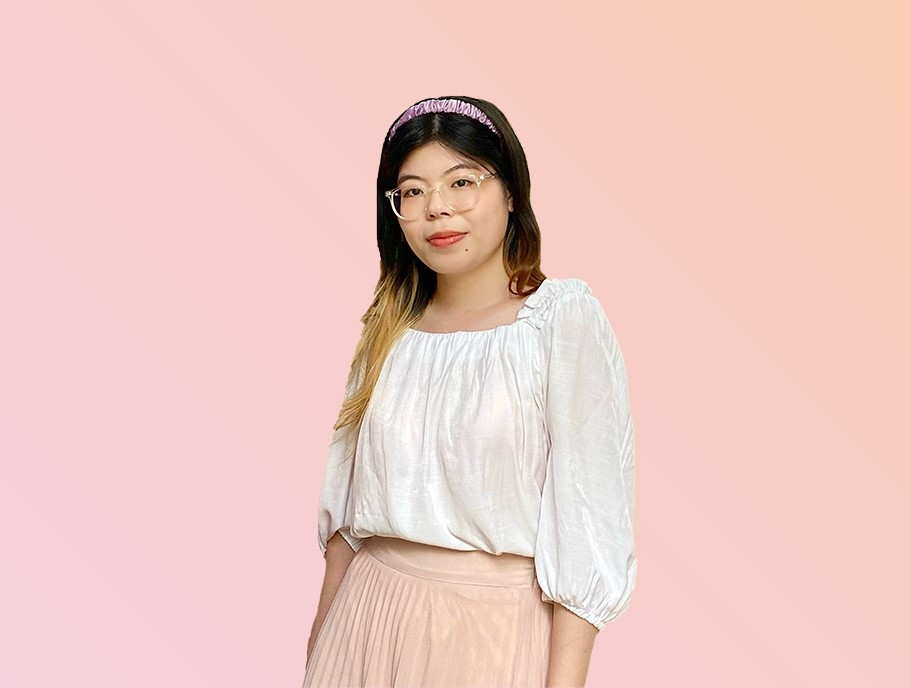
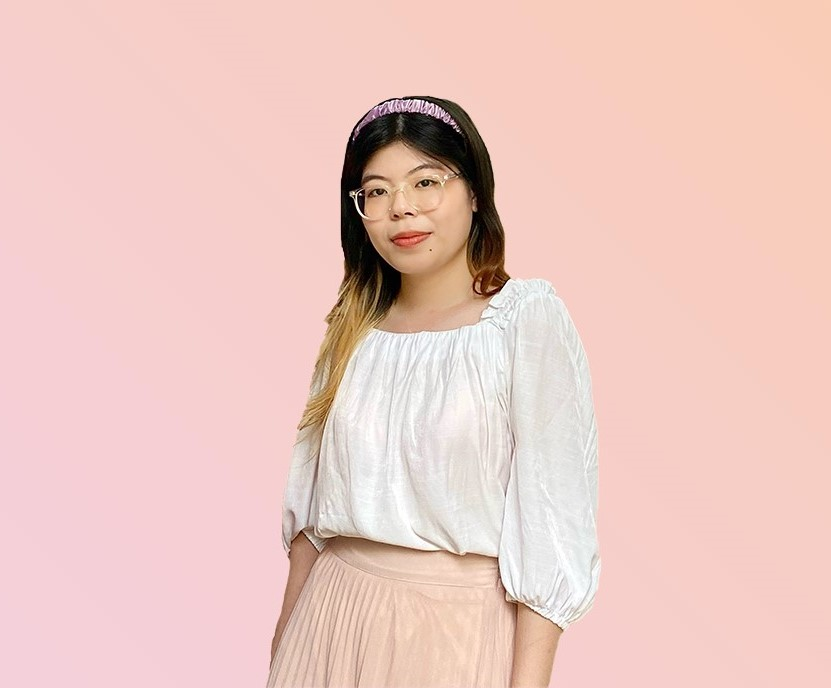
update projects, fixing img

Changed region(s): [[0.3008, 0.1221, 0.722, 1.0], [0.4813, 0.6715, 0.5114, 0.702], [0.4813, 0.6105, 0.5114, 0.641]]

diff --git a/index.html b/index.html
@@ -7,27 +7,25 @@
     <link href="https://cdn.jsdelivr.net/npm/bootstrap@5.2.3/dist/css/bootstrap.min.css" rel="stylesheet"
         integrity="sha384-rbsA2VBKQhggwzxH7pPCaAqO46MgnOM80zW1RWuH61DGLwZJEdK2Kadq2F9CUG65" crossorigin="anonymous">
     <script src="https://cdn.jsdelivr.net/npm/bootstrap@5.2.3/dist/js/bootstrap.bundle.min.js"
-        integrity="sha384-kenU1KFdBIe4zVF0s0G1M5b4hcpxyD9F7jL+jjXkk+Q2h455rYXK/7HAuoJl+0I4" 
+        integrity="sha384-kenU1KFdBIe4zVF0s0G1M5b4hcpxyD9F7jL+jjXkk+Q2h455rYXK/7HAuoJl+0I4"
         crossorigin="anonymous"></script>
     <link rel="preconnect" href="https://fonts.googleapis.com">
     <link rel="preconnect" href="https://fonts.gstatic.com" crossorigin>
     <link href="https://fonts.googleapis.com/css2?family=Josefin+Sans:wght@100&family=Rowdies:wght@300&display=swap"
         rel="stylesheet">
-    <link rel="preconnect" href="https://fonts.googleapis.com">
-    <link rel="preconnect" href="https://fonts.gstatic.com" crossorigin>
     <link
         href="https://fonts.googleapis.com/css2?family=Edu+TAS+Beginner&family=Josefin+Sans:wght@100&family=Rowdies:wght@300&display=swap"
         rel="stylesheet">
-    <link rel="preconnect" href="https://fonts.googleapis.com">
-    <link rel="preconnect" href="https://fonts.gstatic.com" crossorigin>
     <link
         href="https://fonts.googleapis.com/css2?family=Edu+TAS+Beginner&family=Josefin+Sans:wght@100&family=Nunito:wght@200&family=Rowdies:wght@300&display=swap"
         rel="stylesheet">
-    <link rel="preconnect" href="https://fonts.googleapis.com">
-    <link rel="preconnect" href="https://fonts.gstatic.com" crossorigin>
     <link
         href="https://fonts.googleapis.com/css2?family=Edu+TAS+Beginner&family=Josefin+Sans:wght@100&family=Nunito:wght@200&family=Pacifico&family=Rowdies:wght@300&display=swap"
         rel="stylesheet">
+    <link
+        href="https://fonts.googleapis.com/css2?family=Edu+TAS+Beginner&family=Josefin+Sans:wght@100&family=Nunito:wght@200&family=Pacifico&family=Righteous&family=Rowdies:wght@300&display=swap"
+        rel="stylesheet">
+
     <link rel="stylesheet" href="https://cdnjs.cloudflare.com/ajax/libs/font-awesome/4.7.0/css/font-awesome.min.css">
     <link rel="apple-touch-icon" sizes="180x180" href="favicon/apple-touch-icon.png">
     <link rel="icon" type="image/png" sizes="32x32" href="favicon/favicon-32x32.png">
@@ -62,7 +60,7 @@
                     </div>
                     <div class="profile-info">
                         <h1>Hello, my name is Thao Nguyen</h1>
-                        <p>Let's discover my testing projects below!</p>
+                        <p>Let's discover my technical projects below!</p>
                         <a href="#projects"><button class="view-projects-button">View Projects</button></a>
                     </div>
                 </div>
@@ -76,15 +74,14 @@
                 <div class="about-header">
                     <h1 class="about-title"> About </h1>
                     <p class="about-contents">
-                        Lorem, ipsum dolor sit amet consectetur adipisicing elit. Quibusdam aspernatur eaque quas,
-                        sunt quisquam eligendi cupiditate quae rem ipsa corporis sint tempora repudiandae facilis
-                        fugit quo ipsum error maxime accusantium?
-                        Lorem ipsum dolor sit amet consectetur adipisicing elit. Eaque modi exercitationem vel.
-                        Accusamus, nulla veniam. Itaque eum officiis, aut, nemo aliquam praesentium velit, totam
-                        neque saepe nisi modi minima? Temporibus?
-                        Lorem, ipsum dolor sit amet consectetur adipisicing elit. Voluptates dicta, incidunt magni
-                        nesciunt aliquid autem asperiores odio quidem accusamus eos repudiandae recusandae quo porro
-                        aut corporis magnam voluptatem eligendi amet.
+                        A senior student at Hanoi University with a passion for software testing.
+                        I am currently seeking a tester internship opportunity to kickstart my professional development.
+                        My short-term goal is to achieve the ISTQB (International Software Testing Qualifications Board)
+                        certification, which will equip me with a solid foundation in software testing principles and
+                        methodologies.
+                        Building a stable and rewarding career in automation testing is my long-term goal. Through
+                        continuous learning and adaptability, I aspire to become a automation tester who can help ensure
+                        the efficiency of software applications.
                     </p>
                 </div>
             </div>
@@ -99,25 +96,23 @@
                 <div class="row card-row-one">
                     <div class="col">
                         <div class="card card-item-1">
-                            <img src="https://ichef.bbci.co.uk/news/976/cpsprodpb/1362E/production/_128860497_334922667_762325655074030_2740480103230960428_n.jpg"
-                                class="card-img" alt="...">
+                            <img src="imgs/lor-travel-cover.png"
+                                class="card-img" alt="lor-travel-cover">
                             <div class="card-img-overlay">
-                                <h5 class="card-title">Card title</h5>
-                                <p class="card-text">This is a wider card with supporting text below as a natural
-                                    lead-in to additional content. This content is a little bit longer.</p>
-                                <p class="card-text"><small>Last updated 3 mins ago</small></p>
+                                <h5 class="card-title">LOR TRAVEL</h5>
+                                <p class="card-text">A user-friendly website for booking tours in Vietnam, to let users view, book, checkout and tracking the booked tours. Travel with confidence!</p>
+                                <p class="card-text">Tag: #NodeJS, #mongodb, #mongoose, #manual_testing</p>
                             </div>
                         </div>
                     </div>
                     <div class="col">
                         <div class="card card-item-2">
-                            <img src="https://ichef.bbci.co.uk/news/976/cpsprodpb/1362E/production/_128860497_334922667_762325655074030_2740480103230960428_n.jpg"
-                                class="card-img" alt="...">
+                            <img src="imgs/opencart-cover.png"
+                                class="card-img" alt="opencart-cover">
                             <div class="card-img-overlay">
-                                <h5 class="card-title">Card title</h5>
-                                <p class="card-text">This is a wider card with supporting text below as a natural
-                                    lead-in to additional content. This content is a little bit longer.</p>
-                                <p class="card-text"><small>Last updated 3 mins ago</small></p>
+                                <h5 class="card-title">OPENCART </h5>
+                                <p class="card-text">A personal manual testing project on an e-commerce website OpenCart for practicing testing skills such as design and execute testcase, write bug reports and other related document</p>
+                                <p class="card-text">Tag: #manual_testing, #testcase, #RTM, #testscenario, #testplan, #logbug</p>
                             </div>
                         </div>
                     </div>
@@ -125,25 +120,23 @@
                 <div class="row card-row-two">
                     <div class="col">
                         <div class="card card-item-1">
-                            <img src="https://ichef.bbci.co.uk/news/976/cpsprodpb/1362E/production/_128860497_334922667_762325655074030_2740480103230960428_n.jpg"
-                                class="card-img" alt="...">
+                            <img src="imgs/student-api-cover.png"
+                                class="card-img" alt="student">
                             <div class="card-img-overlay">
-                                <h5 class="card-title">Card title</h5>
-                                <p class="card-text">This is a wider card with supporting text below as a natural
-                                    lead-in to additional content. This content is a little bit longer.</p>
-                                <p class="card-text"><small>Last updated 3 mins ago</small></p>
+                                <h5 class="card-title">STUDENT API</h5>
+                                <p class="card-text">A mini project testing API using Postman tool</p>
+                                <p class="card-text">Tag: #manual_testing, #testcase, #postman, #testscript</p>
                             </div>
                         </div>
                     </div>
                     <div class="col">
                         <div class="card card-item-2">
-                            <img src="https://ichef.bbci.co.uk/news/976/cpsprodpb/1362E/production/_128860497_334922667_762325655074030_2740480103230960428_n.jpg"
-                                class="card-img" alt="...">
+                            <img src="imgs/marganet-vintage-cover.png"
+                                class="card-img" alt="marganet-vintage-cover">
                             <div class="card-img-overlay">
-                                <h5 class="card-title">Card title</h5>
-                                <p class="card-text">This is a wider card with supporting text below as a natural
-                                    lead-in to additional content. This content is a little bit longer.</p>
-                                <p class="card-text"><small>Last updated 3 mins ago</small></p>
+                                <h5 class="card-title">MARGANET VINTAGE</h5>
+                                <p class="card-text">An UI/UX school project for creating prototypes of a vintage clothes selling website</p>
+                                <p class="card-text">Tag: #design, #figma, #prototype, #wireframe, #uiux</p>
                             </div>
                         </div>
                     </div>
@@ -158,11 +151,15 @@
                 <div class="row row-resume">
                     <div class="col-8">
                         <img id="image1" src="imgs/0001.jpg" style="width: 90%; cursor: pointer;" alt="#">
-                        <img id="image2" src="imgs/0002.jpg" style="width: 90%; display: none; cursor: pointer;" alt="#">
+                        <img id="image2" src="imgs/0002.jpg" style="width: 90%; display: none; cursor: pointer;"
+                            alt="#">
                     </div>
                     <div class="col-4">
                         <p>Click into the picture to see the rest of my CV</p>
-                        <p>Check my <a href="https://drive.google.com/file/d/1IL7tbRSE9FxHyOkeJ4Co9b6CDtoHhx3C/view?usp=sharing" target="_blank"><span style="color: palevioletred;">Resume</span></a> here for details!</p>
+                        <p>Check my <a
+                                href="https://drive.google.com/file/d/1IL7tbRSE9FxHyOkeJ4Co9b6CDtoHhx3C/view?usp=sharing"
+                                target="_blank"><span style="color: palevioletred;">Resume</span></a> here for details!
+                        </p>
                     </div>
                 </div>
             </div>
@@ -178,7 +175,7 @@
                         <hr>
                         <li><i class="fa fa-envelope" style="font-size:48px;color: rgb(255, 195, 195);"></i> Email:
                             ntthao21112002@gmail.com</li>
-                            <hr>
+                        <hr>
                         <li><i class="fa fa-linkedin-square" style="font-size:48px;color:#0077b5"></i> LinkedIn: thaont
                         </li>
                         <hr>

diff --git a/style.css b/style.css
@@ -77,9 +77,9 @@
 /*Banners*/
 
 #banner {
-    margin-bottom: 2rem;
-    padding-top: 2rem;
-    padding-bottom: 2rem;
+    margin-bottom: 2.25rem;
+    padding-top: 3rem;
+    padding-bottom: 2.25rem;
 }
 
 .profile-picture {
@@ -148,7 +148,7 @@
 
 /*ABOUT SECTION*/
 .about-container {
-    padding-top: 3.75rem;
+    padding-top: 4.75rem;
 }
 
 .about-header {
@@ -156,14 +156,13 @@
 }
 
 .about-title {
-    font-family: 'Edu TAS Beginner', cursive;
-    font-weight: bold;
-    font-size: 4rem;
+    font-family: 'Righteous', sans-serif;
+    font-size: 3.75rem;
     color: var(--main-color);
 }
 
 .about-contents {
-    font-size: 16px;
+    font-size: 1.25rem;
     line-height: 1.6;
     color: var(--second-color);
     margin-top: 20px;
@@ -189,9 +188,8 @@
 }
 
 .projects-title {
-    font-family: 'Edu TAS Beginner', cursive;
-    font-weight: bold;
-    font-size: 4rem;
+    font-family: 'Righteous', sans-serif;
+    font-size: 3.75rem;
     color: var(--main-color);
     text-align: center;
 }
@@ -249,7 +247,7 @@
     left: 0;
     right: 0;
     bottom: 0;
-    background: rgba(50, 83, 246, 0.8);
+    background: rgba(56, 56, 56, 0.8);
     color: #fff;
     transition: opacity 0.3s;
     display: flex;
@@ -281,9 +279,8 @@
 }
 
 .resume-title {
-    font-family: 'Edu TAS Beginner', cursive;
-    font-weight: bold;
-    font-size: 4rem;
+    font-family: 'Righteous', sans-serif;
+    font-size: 3.75rem;
     color: var(--main-color);
     padding-top: 5.5rem;
     padding-bottom: 2rem;
@@ -354,9 +351,8 @@
 }
 
 .contact-title {
-    font-family: 'Edu TAS Beginner', cursive;
-    font-weight: bold;
-    font-size: 4rem;
+    font-family: 'Righteous', sans-serif;
+    font-size: 3.75rem;
     color: var(--main-color);
 }
 

diff --git a/README.md b/README.md
@@ -15,8 +15,6 @@ _**Oct 2020 - Present**_
 
 Major: Information System
 
-GPA: 3.25/4.00
-
 
 _**Apr 2023 - Jun 2023**_
 
@@ -33,9 +31,12 @@ _**Jul 2023 - Present**_
 - **Programming Languages**: Java Core, JavaScript (Basic)
 - **Web Development**: HTML/CSS, Boostrap, ReactJS (Basic)
 - **Version Control**: Git/GitHub
-- **Tools**: Postman, Jira, Visual Paradigm, Figma
+- **Project Control**: Jira
+- **Tools**: Postman, Visual Paradigm, Figma
 - **Database**: MongoDB, MySQL
-- **Testing**: Manual Testing, Selenium, Testing API with Postman tool
+- **Testing**: 
+    Manual Testing: Able to analyse the SRS/FRS, create high-level testcase design, execute testcases and write bug reports, use Postman to test API and write test scripts 
+    Automation Testing: Selenium (in progress), RestAssured API (in progress)
 
 #### Soft Skills
 - Teamwork
@@ -44,40 +45,59 @@ _**Jul 2023 - Present**_
   
 ## Projects
 
-#### Tour Booking and Management System | University Course
+#### Tour Booking and Management System | School Project
 _Feb 2023 - May 2023_
 - Brief: An e-commerce website to book and manage tours in Vietnam, such as: view, book and checkout tour, manage user and tour, ...
 - Scale: 5
 - Techs: HTML/CSS, JavaScript, Boostrap, NodeJS, MongoDB
-- URL:
+- URL: 
 - Role: Tester/Front-end Developer
-- Tasks: Designed the UI of the website using Figma. Analysed and produced the SRS/User Stories documents. Constructed the front-end using HTML/CSS, Boostrap and JavaScript. Designed and executed test scenarios/test cases/RTM documents for features.
+- Tasks: 
+    Design the UI of the website using Figma
+    Analyse and produced the SRS/User Stories documents
+    Construct the front-end using HTML/CSS, Boostrap and JavaScript 
+    Design and executed test scenarios/test cases/RTM documents for features
 
-#### UI/UX Website Design Project | University Course
+#### UI/UX Website Design Project | School Project
 _Feb 2023 - May 2023_
 - Brief: An e-commerce website UI/UX design to book and manage fashion items
 - Scale: 2
 - Techs: Figma
-- URL:
+- URL: [Marganet Vintage](https://www.figma.com/proto/D27A1OtxHRpJWVZMm8nCZW/Marganet-Vintage?page-id=0%3A1&type=design&node-id=0-1&viewport=399%2C350%2C0.02&t=znO9QE7qZsAY3gzE-1&scaling=min-zoom&starting-point-node-id=606%3A3071&mode=design)
 - Role: Designer
-- Tasks: Designed prototypes for each features of the website utilizing Figma
+- Tasks: Design prototypes for each features of the website utilizing Figma
 
-### [Add more projects as needed]
+#### E-commerce Website | Personal Manual Testing Project
+_Oct 2023 - Nov 2023_
+- Brief: A personal project to practice manual testing on the E-commerce website OpenCart
+- Scale: 1
+- URL: (https://github.com/nguyenthanhthao2111/opencart-manual-testing)
+- Role: Tester
+- Tasks: 
+    Analyse the FRS, test plan document and design the test scenarios
+    Write the testcase design and testcase execution document
+    Write the RTM document and bug reports
+
+#### Students API Testing | Personal API Testing Project
+_Oct 2023 - Nov 2023_
+- Brief: A mini project testing students API using Postman tool
+- Scale: 1
+- URL: (https://github.com/nguyenthanhthao2111/students-api-testing)
+- Tech: Postman
+- Role: Tester
+- Tasks: Conduct the API testing on Postman and write the test script
 
 ## Honors & Awards
 
 _**2022**_:
-- Hanoi University Academic Encouragement Scholarship for student with excellent academic result (Spring 2022 semester)
-- Hanoi University Academic Encouragement Scholarship for student with excellent academic result (Fall 2022 semester)
+- Hanoi University Academic Encouragement Scholarship (Spring 2022 semester)
+- Hanoi University Academic Encouragement Scholarship (Fall 2022 semester)
 
 _**2023**_:
-- Hanoi University Academic Encouragement Scholarship for student with excellent academic result (Spring 2023 semester)
+- Hanoi University Academic Encouragement Scholarship (Spring 2023 semester)
 
 ## Contact
 
-Feel free to connect with me through the following channels:
-
-- LinkedIn: [Thao-Nguyen](https://www.linkedin.com/in/thao-nguyen-0bb21321b/)
-- Email: ntthao21112002@gmail.com
+Feel free to connect with me through my email: *ntthao21112002@gmail.com*
 
 Thank you for visiting my portfolio!
